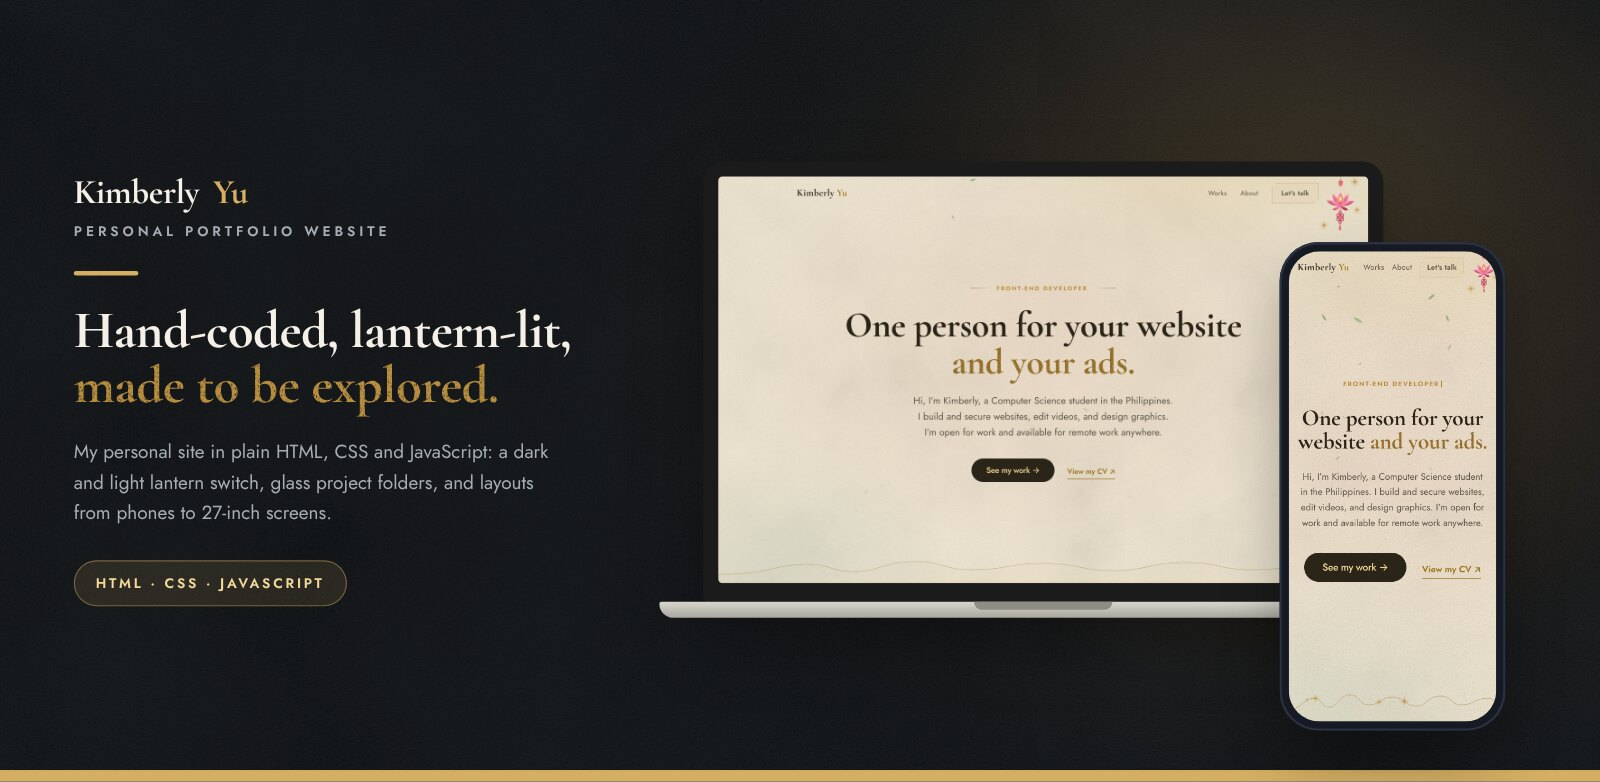
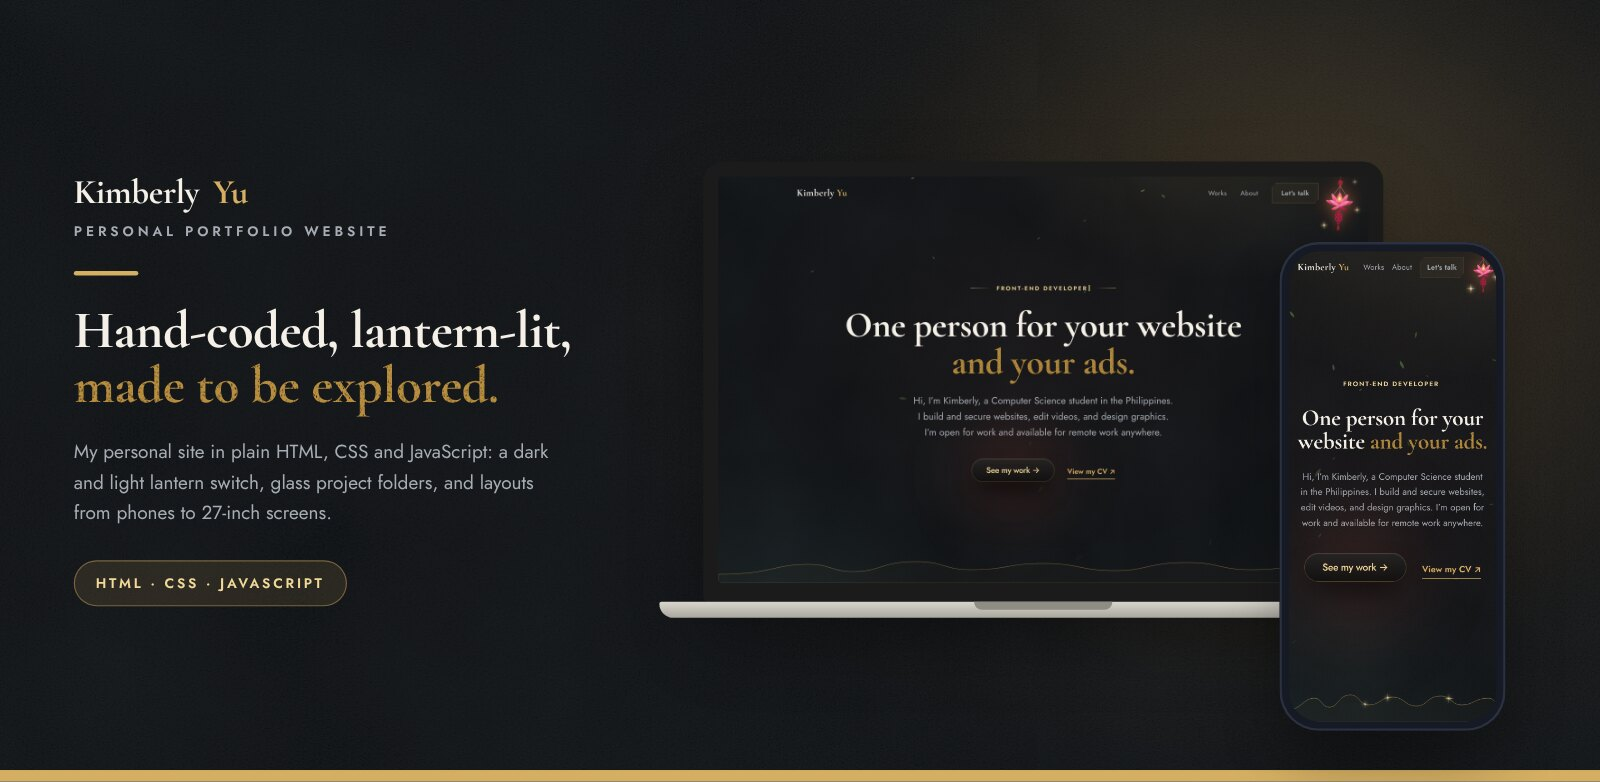
Portfolio project image in dark mode (#199)
Claude-Session: https://claude.ai/code/session_01EG7HUUsZmEBRYkfLY8ALna

Changed region(s): [[0.4375, 0.2148, 0.9375, 0.9207]]

diff --git a/index.html b/index.html
@@ -21,12 +21,12 @@
   <!-- fonts load without holding up the first paint -->
   <link rel="preload" as="style" href="https://fonts.googleapis.com/css2?family=Cormorant+Garamond:ital,wght@0,500;0,600;0,700;1,500;1,600&family=Jost:wght@400;500;600;700&family=Ma+Shan+Zheng&display=swap" onload="this.onload=null;this.rel='stylesheet'" />
   <noscript><link rel="stylesheet" href="https://fonts.googleapis.com/css2?family=Cormorant+Garamond:ital,wght@0,500;0,600;0,700;1,500;1,600&family=Jost:wght@400;500;600;700&family=Ma+Shan+Zheng&display=swap" /></noscript>
-  <link rel="stylesheet" href="site-footer.css?v=20261121s" />
-  <link rel="stylesheet" href="site-motion.css?v=20261121s" />
-  <link rel="stylesheet" href="site-buttons.css?v=20261121s" />
-  <link rel="stylesheet" href="site-cursor.css?v=20261121s" />
-  <link rel="stylesheet" href="site-cta.css?v=20261121s" />
-  <link rel="stylesheet" href="site-showcase.css?v=20261121s" />
+  <link rel="stylesheet" href="site-footer.css?v=20261121t" />
+  <link rel="stylesheet" href="site-motion.css?v=20261121t" />
+  <link rel="stylesheet" href="site-buttons.css?v=20261121t" />
+  <link rel="stylesheet" href="site-cursor.css?v=20261121t" />
+  <link rel="stylesheet" href="site-cta.css?v=20261121t" />
+  <link rel="stylesheet" href="site-showcase.css?v=20261121t" />
   <style>
     /* ============ THEME TOKENS ============ */
     :root {
@@ -603,7 +603,7 @@
       <div class="pf-move">
         <div class="pf-back" aria-hidden="true"></div>
         <div class="pf-files n1">
-          <a class="pf-file" href="#projects" data-project="portfolio" aria-haspopup="dialog"><span class="pf-thumb"><img src="media/portfolio-site.jpg?v=3" alt="" loading="lazy"></span><strong>Portfolio website</strong><span class="pf-sub">HTML · CSS · JS</span></a>
+          <a class="pf-file" href="#projects" data-project="portfolio" aria-haspopup="dialog"><span class="pf-thumb"><img src="media/portfolio-site.jpg?v=4" alt="" loading="lazy"></span><strong>Portfolio website</strong><span class="pf-sub">HTML · CSS · JS</span></a>
         </div>
         <div class="pf-front" aria-hidden="true"><span class="pf-glass"><span class="pf-label">personal projects</span><span class="pf-count">1 file ›</span></span></div>
       </div>
@@ -694,11 +694,11 @@
       <span><a href="index.html#contact">Contact</a> · <a href="https://linkedin.com/in/kimberly-d-yu">LinkedIn</a> · <a href="https://github.com/xiuhuazure">GitHub</a></span>
     </div></div>
   </footer>
-  <script src="site-footer.js?v=20261121s"></script>
-  <script src="site-motion.js?v=20261121s"></script>
-  <script src="site-buttons.js?v=20261121s"></script>
-  <script src="site-cta.js?v=20261121s"></script>
-  <script src="site-showcase.js?v=20261121s"></script>
+  <script src="site-footer.js?v=20261121t"></script>
+  <script src="site-motion.js?v=20261121t"></script>
+  <script src="site-buttons.js?v=20261121t"></script>
+  <script src="site-cta.js?v=20261121t"></script>
+  <script src="site-showcase.js?v=20261121t"></script>
 
   <script>
     // Mobile nav

diff --git a/about.html b/about.html
@@ -20,12 +20,12 @@
   <!-- fonts load without holding up the first paint -->
   <link rel="preload" as="style" href="https://fonts.googleapis.com/css2?family=Cormorant+Garamond:ital,wght@0,500;0,600;0,700;1,500;1,600&family=Jost:wght@400;500;600;700&family=Ma+Shan+Zheng&family=Kaushan+Script&display=swap" onload="this.onload=null;this.rel='stylesheet'" />
   <noscript><link rel="stylesheet" href="https://fonts.googleapis.com/css2?family=Cormorant+Garamond:ital,wght@0,500;0,600;0,700;1,500;1,600&family=Jost:wght@400;500;600;700&family=Ma+Shan+Zheng&family=Kaushan+Script&display=swap" /></noscript>
-  <link rel="stylesheet" href="site-footer.css?v=20261121s" />
-  <link rel="stylesheet" href="site-motion.css?v=20261121s" />
-  <link rel="stylesheet" href="site-buttons.css?v=20261121s" />
-  <link rel="stylesheet" href="site-cursor.css?v=20261121s" />
-  <link rel="stylesheet" href="site-showcase.css?v=20261121s" />
-  <link rel="stylesheet" href="site-certs.css?v=20261121s" />
+  <link rel="stylesheet" href="site-footer.css?v=20261121t" />
+  <link rel="stylesheet" href="site-motion.css?v=20261121t" />
+  <link rel="stylesheet" href="site-buttons.css?v=20261121t" />
+  <link rel="stylesheet" href="site-cursor.css?v=20261121t" />
+  <link rel="stylesheet" href="site-showcase.css?v=20261121t" />
+  <link rel="stylesheet" href="site-certs.css?v=20261121t" />
   <style>
     :root {
       --ink: #0c0f12; --ink-2: #12171c; --surface: #171d23; --surface-2: #1c242b;
@@ -535,11 +535,11 @@
       <span><a href="index.html#contact">Contact</a> · <a href="https://linkedin.com/in/kimberly-d-yu">LinkedIn</a> · <a href="https://github.com/xiuhuazure">GitHub</a></span>
     </div></div>
   </footer>
-  <script src="site-footer.js?v=20261121s"></script>
-  <script src="site-motion.js?v=20261121s"></script>
-  <script src="site-buttons.js?v=20261121s"></script>
-  <script src="site-showcase.js?v=20261121s"></script>
-  <script src="site-certs.js?v=20261121s"></script>
+  <script src="site-footer.js?v=20261121t"></script>
+  <script src="site-motion.js?v=20261121t"></script>
+  <script src="site-buttons.js?v=20261121t"></script>
+  <script src="site-showcase.js?v=20261121t"></script>
+  <script src="site-certs.js?v=20261121t"></script>
 
   <script>
     const toggle = document.getElementById('navToggle');

diff --git a/barangayone.html b/barangayone.html
@@ -20,10 +20,10 @@
   <!-- fonts load without holding up the first paint -->
   <link rel="preload" as="style" href="https://fonts.googleapis.com/css2?family=Cormorant+Garamond:ital,wght@0,500;0,600;0,700;1,500;1,600&family=Jost:wght@400;500;600;700&family=Ma+Shan+Zheng&family=Kaushan+Script&display=swap" onload="this.onload=null;this.rel='stylesheet'" />
   <noscript><link rel="stylesheet" href="https://fonts.googleapis.com/css2?family=Cormorant+Garamond:ital,wght@0,500;0,600;0,700;1,500;1,600&family=Jost:wght@400;500;600;700&family=Ma+Shan+Zheng&family=Kaushan+Script&display=swap" /></noscript>
-  <link rel="stylesheet" href="site-footer.css?v=20261121s" />
-  <link rel="stylesheet" href="site-motion.css?v=20261121s" />
-  <link rel="stylesheet" href="site-buttons.css?v=20261121s" />
-  <link rel="stylesheet" href="site-cursor.css?v=20261121s" />
+  <link rel="stylesheet" href="site-footer.css?v=20261121t" />
+  <link rel="stylesheet" href="site-motion.css?v=20261121t" />
+  <link rel="stylesheet" href="site-buttons.css?v=20261121t" />
+  <link rel="stylesheet" href="site-cursor.css?v=20261121t" />
   <style>
     :root {
       --ink: #0c0f12; --ink-2: #12171c; --surface: #171d23; --surface-2: #1c242b;
@@ -501,9 +501,9 @@
       <span><a href="index.html#contact">Contact</a> · <a href="https://linkedin.com/in/kimberly-d-yu">LinkedIn</a> · <a href="https://github.com/xiuhuazure">GitHub</a></span>
     </div></div>
   </footer>
-  <script src="site-footer.js?v=20261121s"></script>
-  <script src="site-motion.js?v=20261121s"></script>
-  <script src="site-buttons.js?v=20261121s"></script>
+  <script src="site-footer.js?v=20261121t"></script>
+  <script src="site-motion.js?v=20261121t"></script>
+  <script src="site-buttons.js?v=20261121t"></script>
 
   <script>
     document.querySelectorAll('.deliv-media video').forEach(v => {

diff --git a/case-study.html b/case-study.html
@@ -20,10 +20,10 @@
   <!-- fonts load without holding up the first paint -->
   <link rel="preload" as="style" href="https://fonts.googleapis.com/css2?family=Cormorant+Garamond:ital,wght@0,500;0,600;0,700;1,500;1,600&family=Jost:wght@400;500;600;700&family=Ma+Shan+Zheng&family=Kaushan+Script&display=swap" onload="this.onload=null;this.rel='stylesheet'" />
   <noscript><link rel="stylesheet" href="https://fonts.googleapis.com/css2?family=Cormorant+Garamond:ital,wght@0,500;0,600;0,700;1,500;1,600&family=Jost:wght@400;500;600;700&family=Ma+Shan+Zheng&family=Kaushan+Script&display=swap" /></noscript>
-  <link rel="stylesheet" href="site-footer.css?v=20261121s" />
-  <link rel="stylesheet" href="site-motion.css?v=20261121s" />
-  <link rel="stylesheet" href="site-buttons.css?v=20261121s" />
-  <link rel="stylesheet" href="site-cursor.css?v=20261121s" />
+  <link rel="stylesheet" href="site-footer.css?v=20261121t" />
+  <link rel="stylesheet" href="site-motion.css?v=20261121t" />
+  <link rel="stylesheet" href="site-buttons.css?v=20261121t" />
+  <link rel="stylesheet" href="site-cursor.css?v=20261121t" />
   <style>
     :root {
       --ink: #0c0f12; --ink-2: #12171c; --surface: #171d23; --surface-2: #1c242b;
@@ -477,9 +477,9 @@
       <span><a href="index.html#contact">Contact</a> · <a href="https://linkedin.com/in/kimberly-d-yu">LinkedIn</a> · <a href="https://github.com/xiuhuazure">GitHub</a></span>
     </div></div>
   </footer>
-  <script src="site-footer.js?v=20261121s"></script>
-  <script src="site-motion.js?v=20261121s"></script>
-  <script src="site-buttons.js?v=20261121s"></script>
+  <script src="site-footer.js?v=20261121t"></script>
+  <script src="site-motion.js?v=20261121t"></script>
+  <script src="site-buttons.js?v=20261121t"></script>
 
   <script>
     document.querySelectorAll('.deliv-media video').forEach(v => {

diff --git a/site-showcase.js b/site-showcase.js
@@ -67,7 +67,7 @@
       title: 'Portfolio website', date: '2026 · Personal project · Individual project',
       tech: ['HTML', 'CSS', 'JavaScript', 'Cloudflare', 'Claude'],
       desc: 'The site you’re on: hand-written HTML, CSS and JavaScript with a lantern dark and light switch, scroll motion, glass folders and layouts that fit phones up to 27-inch screens. Built with Claude and deployed on Cloudflare.',
-      media: { img: 'media/portfolio-site.jpg?v=3', alt: 'Kimberly Yu portfolio website on a laptop and a phone', contain: true },
+      media: { img: 'media/portfolio-site.jpg?v=4', alt: 'Kimberly Yu portfolio website on a laptop and a phone', contain: true },
       links: [['View the code on GitHub ↗', 'https://github.com/xiuhuazure/creative-tech-portfolio']]
     },
     'jonathan': {

diff --git a/README.md b/README.md
@@ -42,7 +42,7 @@ an entry to `PROJECTS` in `site-showcase.js` and a `.pf-card` with a matching `d
 
 ### Cache-busting
 
-The shared `site-*.css` / `site-*.js` links carry a version (`?v=20261121s`). When you change one of those
+The shared `site-*.css` / `site-*.js` links carry a version (`?v=20261121t`). When you change one of those
 files, bump the version on every page so visitors' browsers fetch the new file instead of a saved old copy.
 
 ### Certifications & badges (About page)
